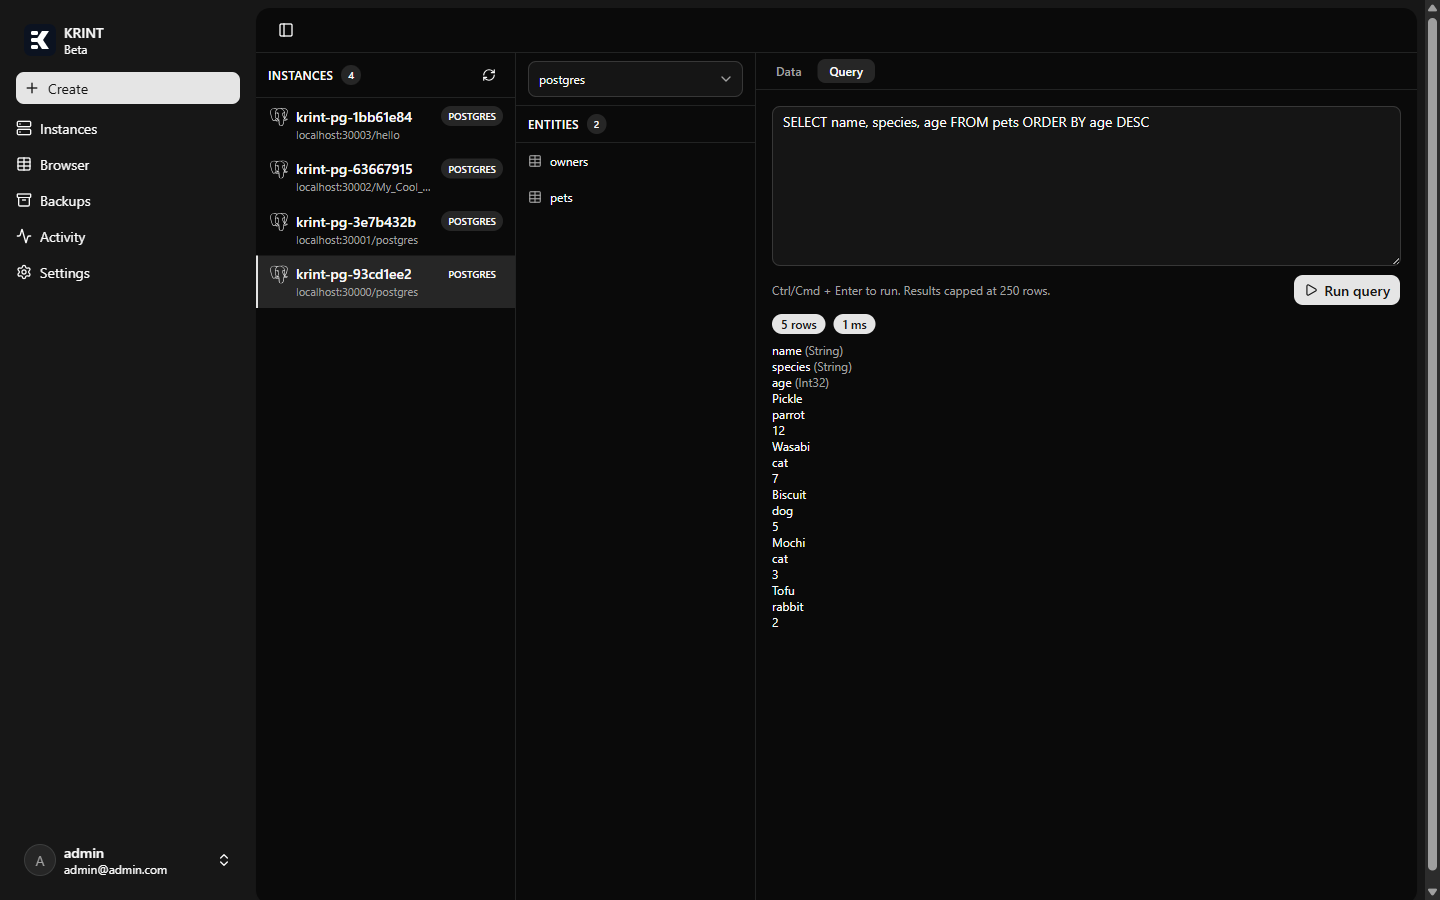
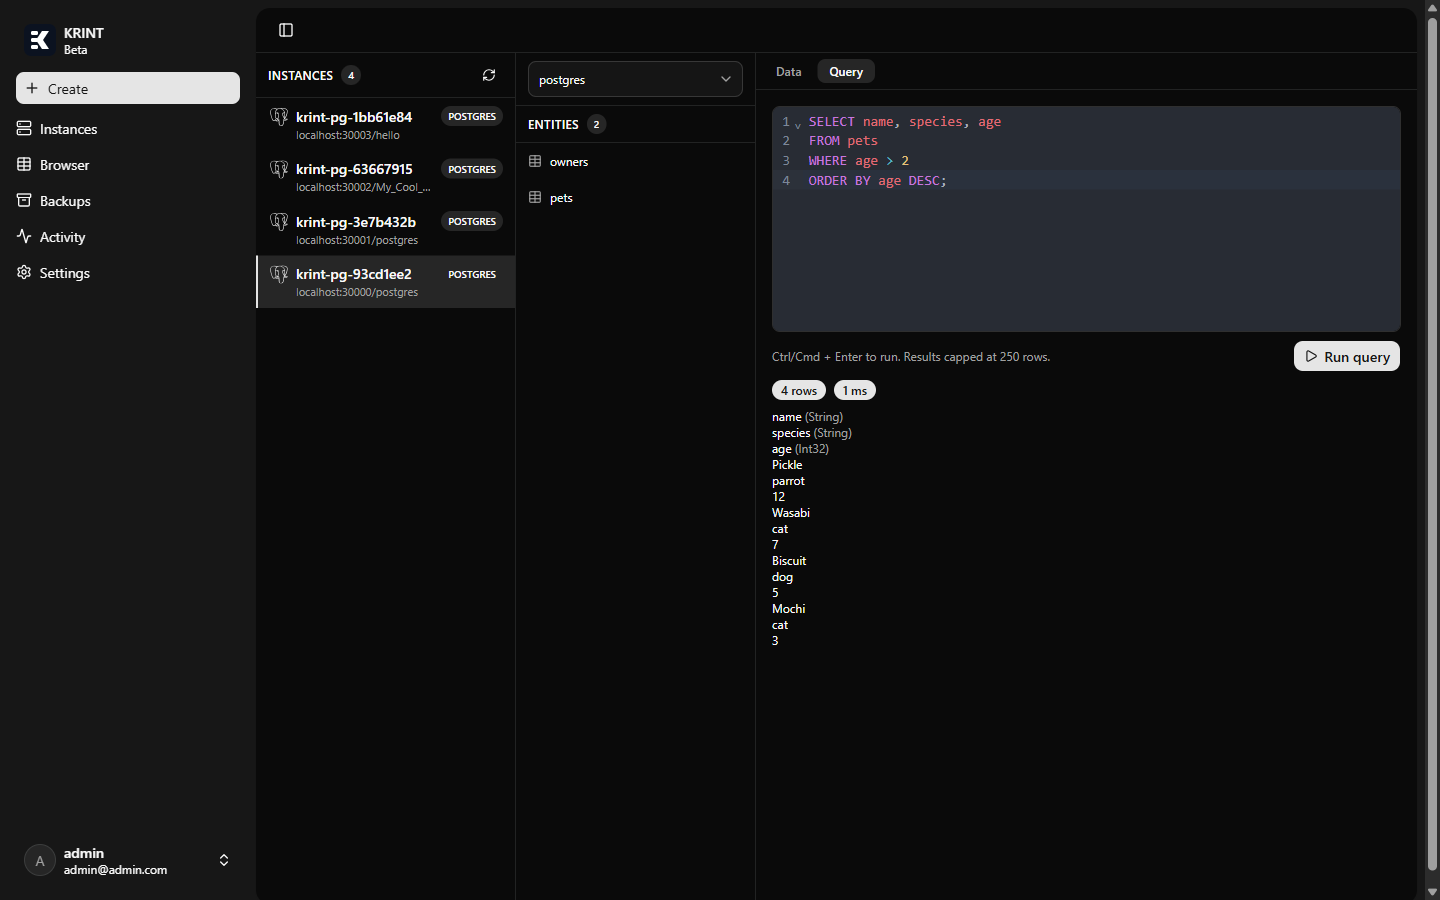
Swap the SQL editor for CodeMirror 6 with basicSetup + lang-sql
Editor: <textarea> replaced by CodeMirror 6. basicSetup ships the
expected niceties (line numbers, history, default+history keymaps,
indentation, search, bracket matching, code folding, autocompletion,
syntax highlighting) so we don't hand-roll the extension stack.
@user/lang-sql adds SQL grammar + keyword completion;
upperCaseKeywords on so SELECT / FROM / etc. complete in caps.

Schema-aware completions: the parent (Browser) passes its currently-
selected table list down as [tables], wired into sql({ schema, ... })
so the autocomplete pool includes real table names alongside keywords.

Theme: oneDark applies when documentElement carries .dark (matches the
ThemeService toggle); light mode falls through to CodeMirror's default.

Keymap priority: our Mod-Enter (Ctrl/Cmd+Enter -> run) is registered
ahead of basicSetup so it wins over the default newline binding.

Editor host is rebuilt when engine or tables change so the autocomplete
context stays accurate.

Changed region(s): [[0.5312, 0.0933, 1.0, 0.6844]]

diff --git a/src/KRINT.Frontend/src/app/shared/components/query-console/query-console.ts b/src/KRINT.Frontend/src/app/shared/components/query-console/query-console.ts
@@ -1,12 +1,29 @@
-import { ChangeDetectionStrategy, Component, computed, inject, input, signal } from '@angular/core';
+import {
+  AfterViewInit,
+  ChangeDetectionStrategy,
+  Component,
+  computed,
+  effect,
+  ElementRef,
+  inject,
+  input,
+  OnDestroy,
+  signal,
+  viewChild,
+} from '@angular/core';
+import { sql } from '@codemirror/lang-sql';
+import { oneDark } from '@codemirror/theme-one-dark';
+import { EditorState } from '@codemirror/state';
+import { EditorView, keymap } from '@codemirror/view';
+import { basicSetup } from 'codemirror';
 import { NgIcon, provideIcons } from '@ng-icons/core';
 import { lucidePlay, lucideTriangleAlert } from '@ng-icons/lucide';
 import { HlmBadgeImports } from '@spartan-ng/helm/badge';
 import { HlmButtonImports } from '@spartan-ng/helm/button';
-import { HlmInputImports } from '@spartan-ng/helm/input';
 import { HlmTableImports } from '@spartan-ng/helm/table';
 import { DatabaseService } from '../../../api/api/database.service';
 import { RunQueryResultDto } from '../../../api/model/runQueryResultDto';
+import { TableSummaryDto } from '../../../api/model/tableSummaryDto';
 
 // Engines whose IInnerQueryService is registered on the backend. Surface other engines as
 // "console not available" without making the API roundtrip.
@@ -20,7 +37,7 @@ export const QUERY_SUPPORTED_ENGINES = new Set<string>([
 
 @Component({
   selector: 'app-query-console',
-  imports: [NgIcon, HlmBadgeImports, HlmButtonImports, HlmInputImports, HlmTableImports],
+  imports: [NgIcon, HlmBadgeImports, HlmButtonImports, HlmTableImports],
   providers: [provideIcons({ lucidePlay, lucideTriangleAlert })],
   changeDetection: ChangeDetectionStrategy.OnPush,
   template: `
@@ -35,15 +52,9 @@ export const QUERY_SUPPORTED_ENGINES = new Set<string>([
       </div>
     } @else {
       <div class="flex flex-col gap-2 p-4">
-        <textarea
-          hlmInput
-          class="font-mono min-h-[10rem] resize-y"
-          placeholder="SELECT 1;"
-          [value]="sql()"
-          (input)="sql.set(toValue($event))"
-          (keydown)="onKey($event)"
-          aria-label="SQL editor"
-        ></textarea>
+        <!-- CodeMirror host. The editor is created in afterViewInit and re-uses this div for
+             its full lifetime; signal -> editor sync only flows on programmatic value changes. -->
+        <div #editorHost class="border-input rounded-md border overflow-hidden text-sm"></div>
         <div class="flex items-center justify-between gap-2">
           <span class="text-muted-foreground text-xs">
             Ctrl/Cmd + Enter to run. Results capped at {{ rowLimit() }} rows.
@@ -101,12 +112,15 @@ export const QUERY_SUPPORTED_ENGINES = new Set<string>([
     }
   `,
 })
-export class QueryConsole {
+export class QueryConsole implements AfterViewInit, OnDestroy {
   readonly instanceId = input<string | null>(null);
   readonly database = input<string | null>(null);
   readonly engine = input<string | null>(null);
+  /** Optional: table list to enrich the SQL autocomplete with the current database's tables. */
+  readonly tables = input<ReadonlyArray<TableSummaryDto>>([]);
 
   private readonly api = inject(DatabaseService);
+  private readonly host = viewChild<ElementRef<HTMLDivElement>>('editorHost');
 
   protected readonly sql = signal('');
   protected readonly running = signal(false);
@@ -127,15 +141,69 @@ export class QueryConsole {
     this.sql().trim().length > 0,
   );
 
-  protected toValue(event: Event): string {
-    return (event.target as HTMLTextAreaElement).value;
+  private view: EditorView | null = null;
+
+  constructor() {
+    // Rebuild the editor if the engine + database changes so the autocomplete schema reflects
+    // the new context. We tear down + remount instead of dynamically swapping extensions to
+    // keep the wiring simple - the editor host is cheap to recreate.
+    effect(() => {
+      this.tables();
+      this.engine();
+      if (this.view) this.rebuild();
+    });
   }
 
-  protected onKey(event: KeyboardEvent): void {
-    if ((event.ctrlKey || event.metaKey) && event.key === 'Enter') {
-      event.preventDefault();
-      this.run();
-    }
+  ngAfterViewInit(): void {
+    this.rebuild();
+  }
+
+  ngOnDestroy(): void {
+    this.view?.destroy();
+    this.view = null;
+  }
+
+  private rebuild(): void {
+    const host = this.host()?.nativeElement;
+    if (!host) return;
+    this.view?.destroy();
+
+    const schema: Record<string, string[]> = {};
+    for (const t of this.tables()) schema[t.name] = [];
+
+    // We don't know the columns ahead of fetching them, so just feed the table names.
+    // CodeMirror's SQL completion will mix them in with keywords + the engine dialect.
+    const dialect = this.engine() ?? 'postgres';
+    const isDark = document.documentElement.classList.contains('dark');
+
+    const startDoc = this.sql();
+    const state = EditorState.create({
+      doc: startDoc,
+      extensions: [
+        // basicSetup is the canonical bundle from `codemirror`: line numbers, history,
+        // default + history keymaps, indentation, search, bracket matching, code folding,
+        // autocompletion, syntax highlighting. We add SQL on top + our own Mod-Enter hook.
+        // Putting our keymap before basicSetup ensures Ctrl/Cmd+Enter runs the query instead
+        // of inserting a newline (basicSetup's default behaviour).
+        keymap.of([
+          { key: 'Mod-Enter', preventDefault: true, run: () => { this.run(); return true; } },
+        ]),
+        basicSetup,
+        sql({ schema, upperCaseKeywords: true }),
+        EditorView.updateListener.of((u) => {
+          if (u.docChanged) this.sql.set(u.state.doc.toString());
+        }),
+        EditorView.theme({
+          '&': { height: '14rem', fontFamily: 'ui-monospace, SFMono-Regular, Menlo, Consolas, monospace' },
+          '.cm-scroller': { overflow: 'auto' },
+        }),
+        ...(isDark ? [oneDark] : []),
+      ],
+    });
+
+    this.view = new EditorView({ state, parent: host });
+    // Avoid an unused-variable warning in modes where we don't reference dialect explicitly.
+    void dialect;
   }
 
   protected run(): void {

diff --git a/src/KRINT.Frontend/src/app/browser/browser.html b/src/KRINT.Frontend/src/app/browser/browser.html
@@ -129,6 +129,7 @@
         [instanceId]="instanceId()"
         [database]="database()"
         [engine]="selectedInstance()?.engine ?? null"
+        [tables]="tables()"
       />
     } @else if (!table()) {
       <p class="text-muted-foreground flex flex-1 items-center justify-center text-sm">